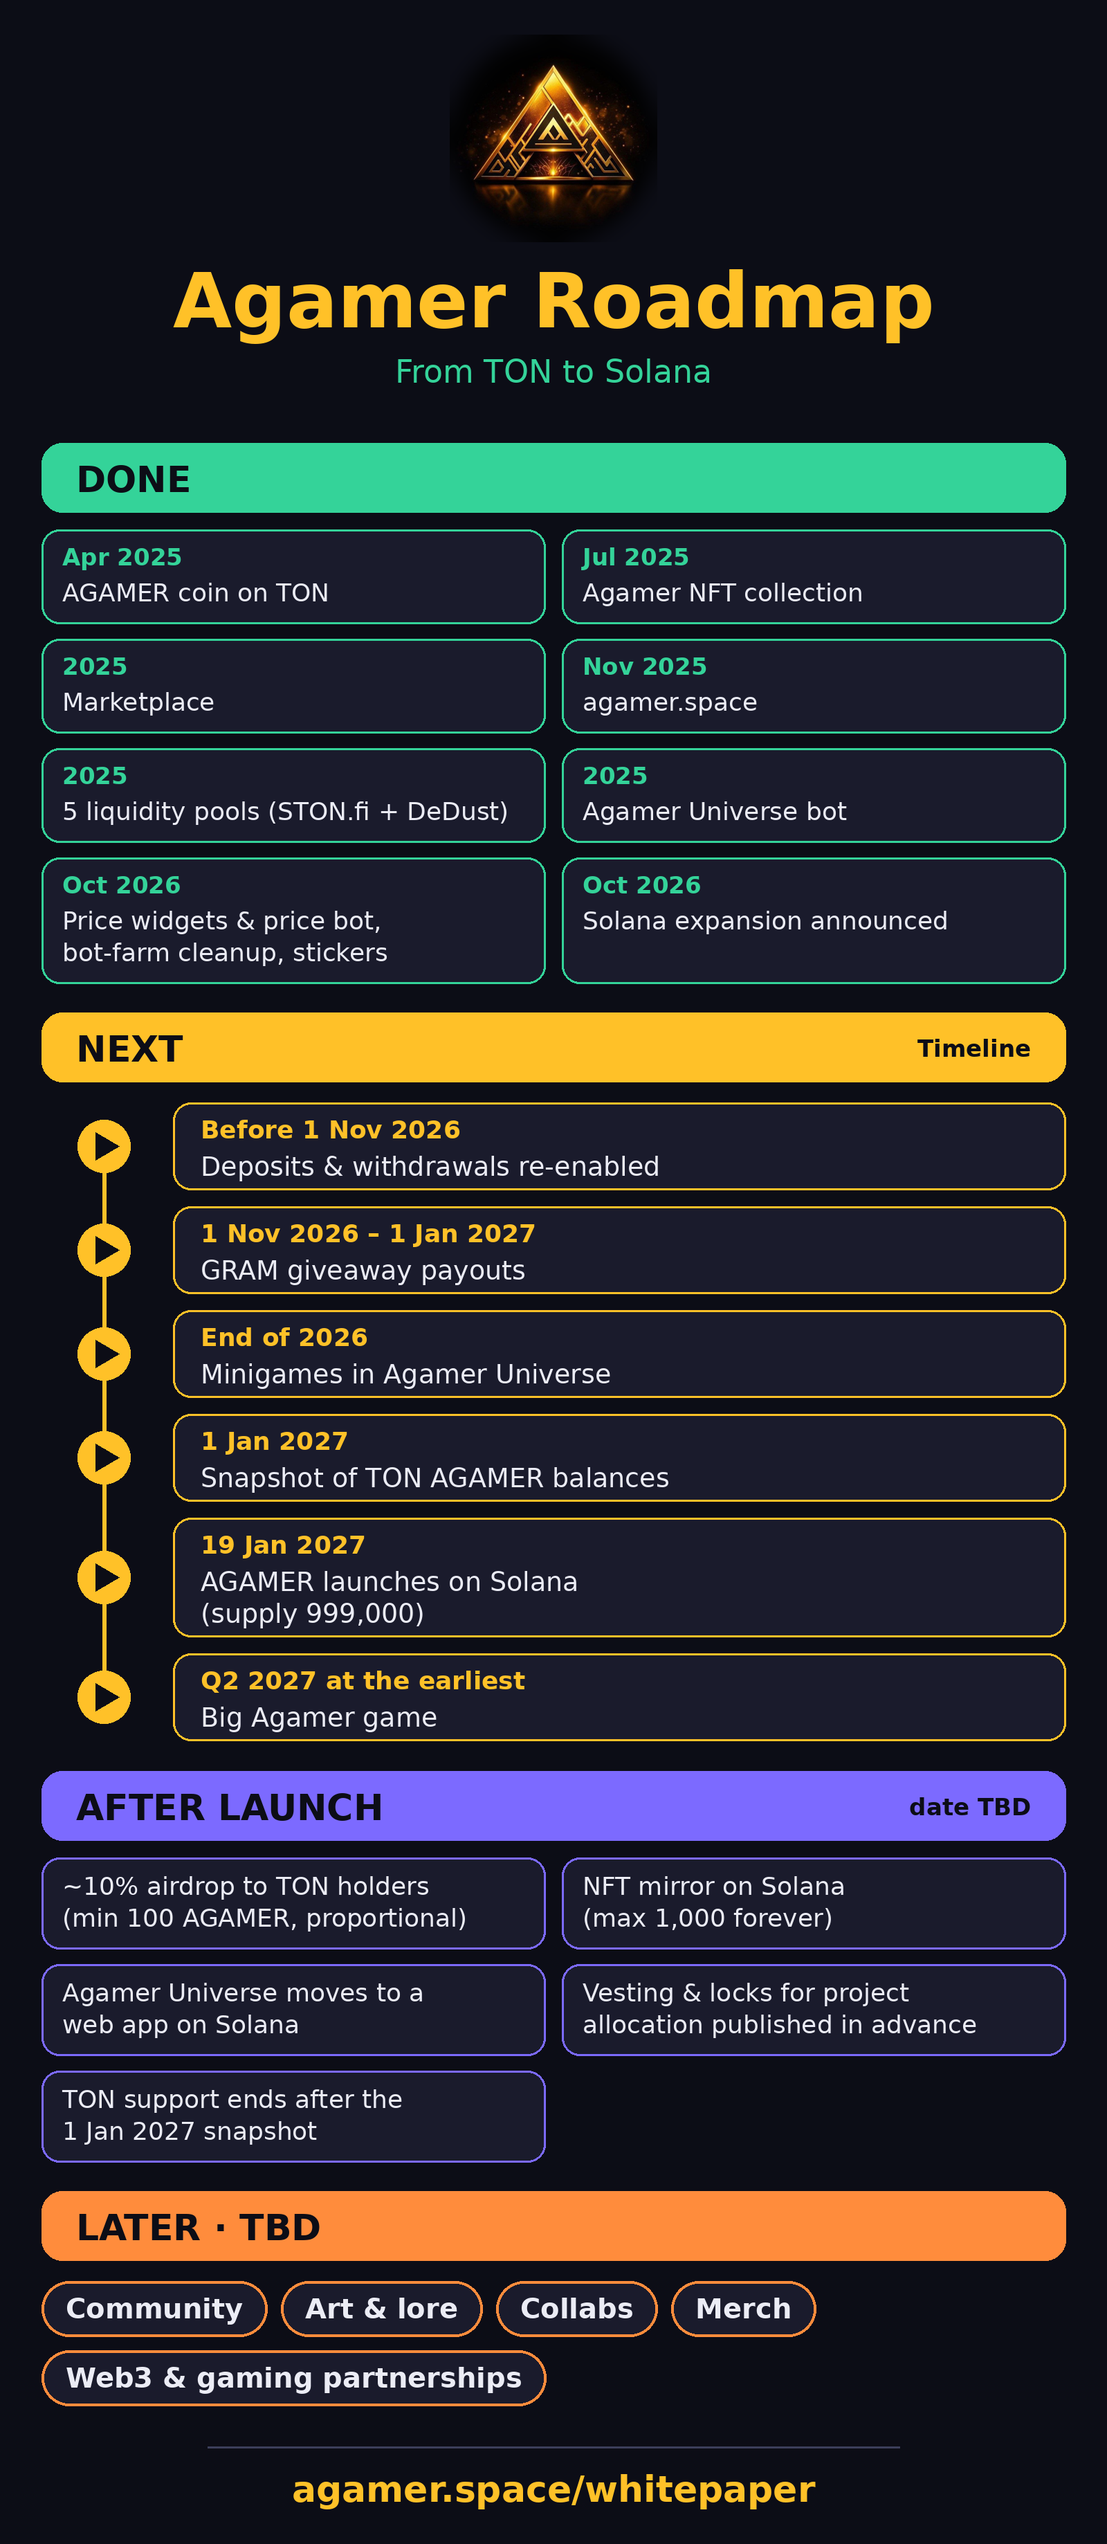
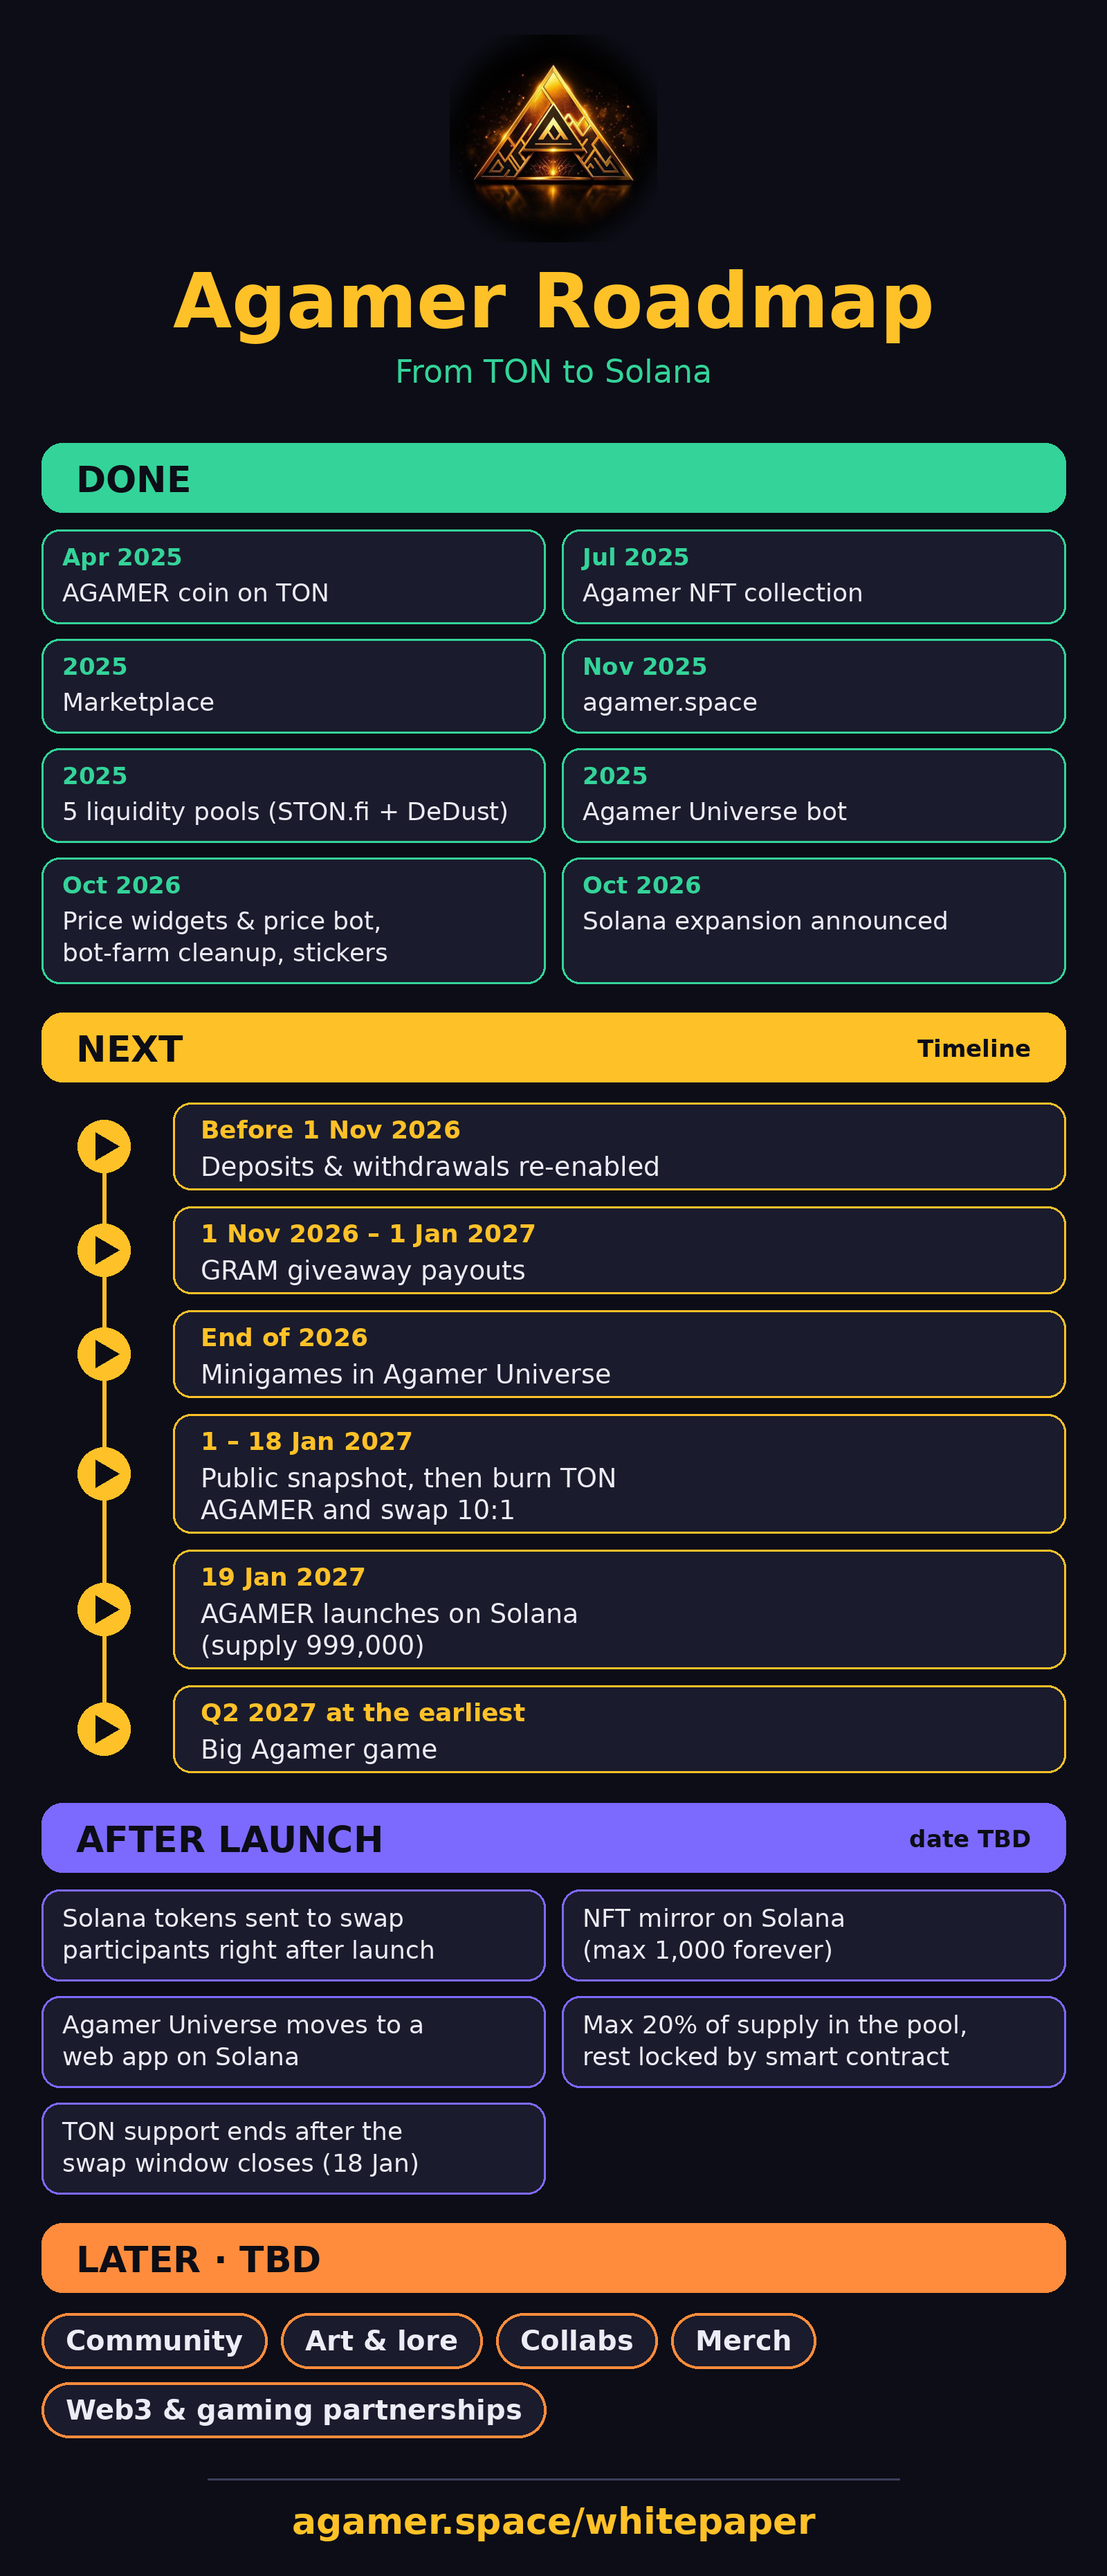
Update the Solana roadmap with the swap window and a Russian version. (#3)
Replace the English roadmap image, add the Russian roadmap, and revise the Next items in white paper section 8 to describe the snapshot, burn window, and supply split.

diff --git a/public/whitepaper/index.html b/public/whitepaper/index.html
@@ -283,6 +283,7 @@
 </ul>
 <h2>8. Roadmap</h2>
 <p><a href="/whitepaper/roadmap.png"><img src="/whitepaper/roadmap.png" alt="Agamer roadmap: from TON to Solana" style="max-width:100%;height:auto;border-radius:18px"></a></p>
+<p><a href="/whitepaper/roadmap-ru.png">Русская версия дорожной карты</a></p>
 <p><strong>Done</strong>
 - 20 Apr 2025: AGAMER coin launched on TON with admin rights revoked and the first liquidity on STON.fi
 - Free airdrops for AGAMER holders
@@ -307,16 +308,17 @@
 <p><strong>Next (from the Phase 2 plan, Nov 2025, updated for Solana)</strong>
 - Before 1 Nov 2026: deposits and withdrawals re-enabled
 - 1 Nov 2026 - 1 Jan 2027: GRAM giveaway payouts
-- 1 Jan 2027: snapshot of TON AGAMER balances for the Solana airdrop
+- 1 Jan 2027: public snapshot of TON AGAMER balances (anti-bot protection: only wallets holding at least 100 AGAMER on that date can swap); burning starts right after it
+- 1 Jan - 18 Jan 2027: swap window: burn TON AGAMER at 10 to 1 (100 AGAMER on TON gives 10 on Solana), minimum 100 AGAMER. The window is not extended or reopened after launch
 - 19 Jan 2027: AGAMER launch on Solana, supply 999,000 (same as on TON)
 - Q2 2027 at the earliest: the big Agamer game
-- After the Solana launch (date TBD): airdrop of about 10% of the Solana supply to TON holders, proportional to snapshot balances, minimum 100 AGAMER, no cap, no lock
+- Right after the 19 Jan 2027 launch: Solana AGAMER is sent to the wallets of everyone who burned TON AGAMER, based on burns verified on-chain (at most about 10% of the 999,000 supply)
 - Agamer NFTs mirrored on Solana with the same numbers, maximum 1,000 (the owner's ~280 NFTs stay frozen until the game launch; issue dates TBD)
-- 90% of the Solana supply goes to the project, with vesting and locks published in advance (details TBD)
+- Not more than 20% of the Solana supply goes into the liquidity pool; the rest is frozen for project needs and future development in a smart contract with public terms, published before launch
 - Whole Agamer Universe platform (the Agamer game and games by other developers) moves to a web application on Solana
 - End of 2026: minigames in Agamer Universe
 - Paid giveaways in games removed (free giveaways only)
-- End of TON support: nothing will be developed on TON after 1 Jan 2027. TON AGAMER is no longer supported after the snapshot; TON NFTs are no longer supported once all 1,000 Solana copies are issued (date TBD)
+- End of TON support: nothing will be developed on TON after 1 Jan 2027. TON AGAMER is no longer supported after the swap window closes on 18 Jan 2027; TON NFTs are no longer supported once all 1,000 Solana copies are issued (date TBD)
 - Gaming experiences (minigames, interactive challenges) (timing TBD)
 - Agamer community on the major social platforms (timing TBD)
 - Agamer art, lore and storytelling (timing TBD)
